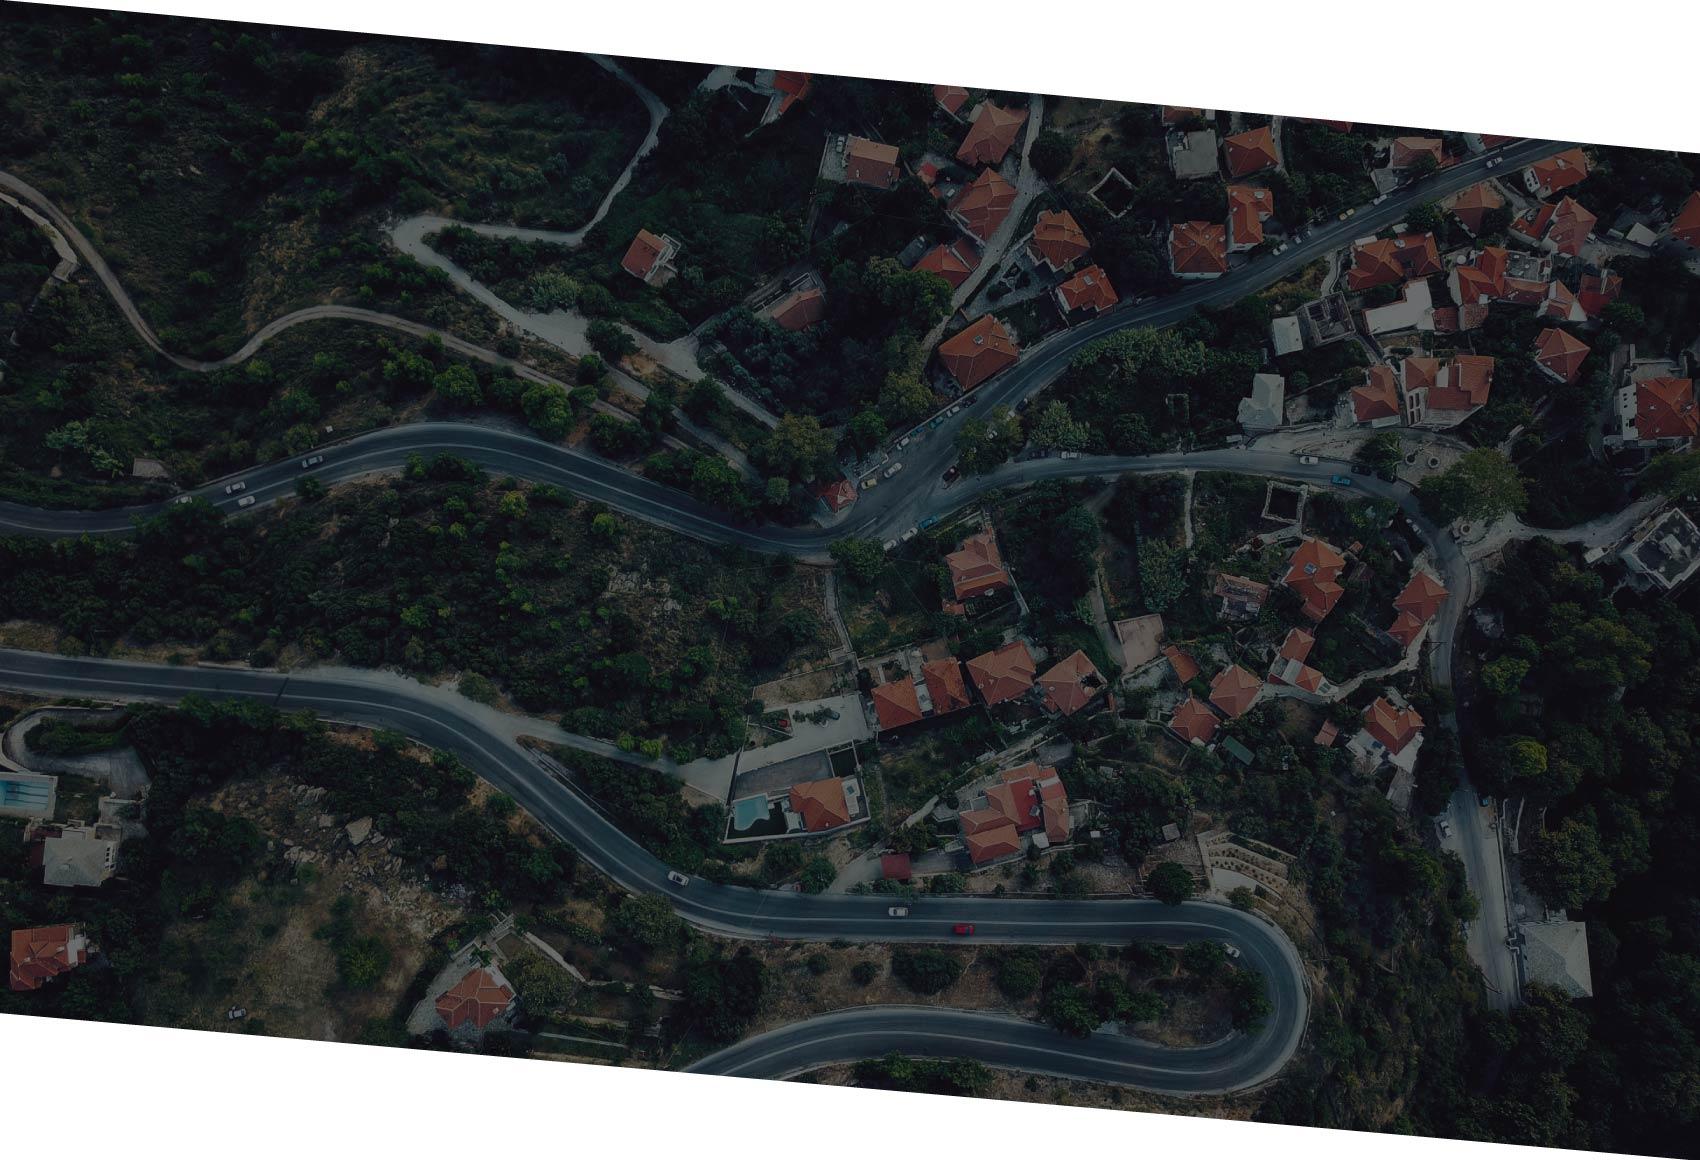
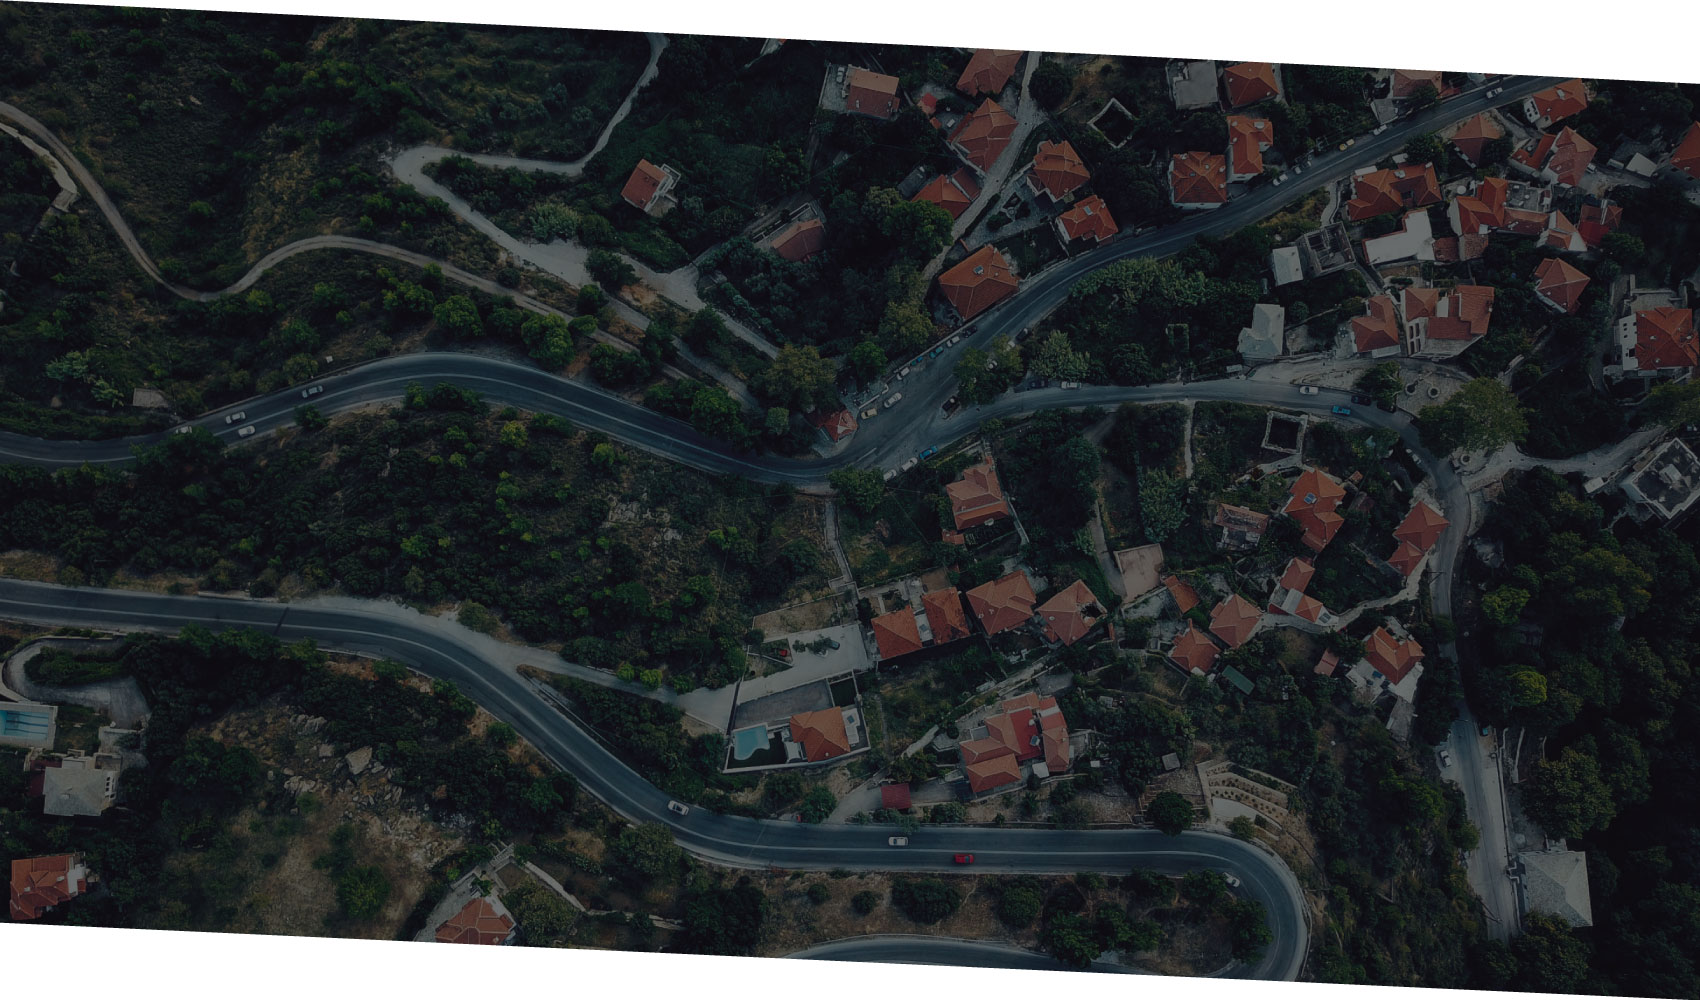
background fix

diff --git a/index.html b/index.html
@@ -67,15 +67,12 @@
 	<nav class="nav-menu-res" id="navbar">
 		<div class="menures-block">
 	    	<div class="menu-hide" id="menu-hide">
-		        <a href="index.html">
-		          <img class="menures__logo" src="assets/images/nereus-menu.png">
-		        </a>
 		        <ul class="menures">
-		            <li><span></span><a href="#"><h4>Nosotros</h4></a></li>
-		            <li><span></span><a href="#estadisticas"><h4>Estadísticas</h4></a></li>
-		            <li><span></span><a href="#partners"><h4>Partners</h4></a></li>
-		            <li><span></span><a href="#productos"><h4>Productos</h4></a></li>
-		            <li><span></span><a href="#contacto"><h4>Contacto</h4></a></li>
+		            <li><a href="#">Nosotros</a></li>
+		            <li><a href="#estadisticas">Estadísticas</a></li>
+		            <li><a href="#partners">Partners</a></li>
+		            <li><a href="#productos">Productos</a></li>
+		            <li><a href="#contacto">Contacto</a></li>
 		        </ul>
 	    	</div>
 		    <div class="hamburger_div" id="hamburger">

diff --git a/assets/js/myscript.js b/assets/js/myscript.js
@@ -59,7 +59,6 @@ const md = window.matchMedia( "(min-width: 1000px)" );
 		desplazar();
 		e.stopPropagation();
 		menuHideShow = $('.nav-menu-res').children(".menu-hide").hasClass('show');
-		$('.menuicon').addClass('menuicon--black');
 		console.log(menuHideShow)
 	})
 
@@ -67,7 +66,6 @@ const md = window.matchMedia( "(min-width: 1000px)" );
 		if (menuHideShow = true && e.target.className != 'menu-hide show') {
 			$('.menu-hide').removeClass('show');
 			$('#hamburger').removeClass('hamburguer-slide');
-			$('.menuicon').removeClass('menuicon--black');
 			e.stopPropagation();
 		}
 		console.log(e.target)
@@ -153,7 +151,7 @@ const md = window.matchMedia( "(min-width: 1000px)" );
 					$('#partnersFlex').removeClass('element_hide-show');
 				}
 
-				if ($(window).scrollTop() + 200 >= certificadosSection.top ) {
+				if ($(window).scrollTop()  >= certificadosSection.top ) {
 					$('#certificadosFlex').addClass('element_hide-show');
 				} else {
 					$('#certificadosFlex').removeClass('element_hide-show');

diff --git a/assets/css/responsive.css b/assets/css/responsive.css
@@ -245,7 +245,7 @@
 	.brief__section {
 		background-image: url(../images/bkg-2-1700.jpg);
 		padding: 0 35vw;
-		height: 95vh;
+		height: 1024px;
 	}
 
 	.brief__paragraph {
@@ -271,12 +271,12 @@
 
 	.statistics__section {
 		background-image: url(../images/bkg-3-1700.jpg);
-		padding: 35vh 0vw;
+		height: 990px;
 	}
 
 	.statistics__title {
+		padding: 20% 30% 0 30%;
 		font-size: 1.2rem;
-		padding: 0 30%;
 	}
 
 	.statics_one_section {
@@ -368,11 +368,11 @@
 
 	.certificados__section {
 		background-image: url('../images/bkg-4-1700.jpg');
-		padding: 35vh 12vw;
+		height: 1200px;
 	}
 
 	.certificados__title {
-		padding: 0 35%;
+		padding: 35% 35% 0 35%;
 		font-size: 1.2rem;
 	}
 
@@ -457,7 +457,6 @@
 
 	.statistics__section {
 		background-image: url(../images/bkg-3-1700.jpg);
-		padding: 47vh 0vw;
 	}
 
 	.statistics__title {
@@ -490,7 +489,6 @@
 
 	.certificados__section {
 		background-image: url('../images/bkg-4-1700.jpg');
-		padding: 44vh 12vw;
 	}
 
 	.certificados__quote {

diff --git a/assets/css/menu.css b/assets/css/menu.css
@@ -7,30 +7,19 @@
   position: absolute;
 }
 
-.menu_full {
-  display: none;
-}
-
 .menu-hide{
-  width: 200px;
-  left: -205px;
-  height: 100vh;
+  left: -100px;
   position: fixed;
   top: 0px;
   transition: all .5s ease-in-out;
   text-align: center;
   z-index: 50;
-  padding-top: 100px;
-  background-color: #fff;
+  padding-top: 5vh;
 }
 
 .show{
-  left: 0px;
+  left: 20px;
   transition: all .5s ease-in-out;
-}
-
-.menures__logo {
-  width: 70%;
 }
 
 .hamburger_div {
@@ -73,21 +62,18 @@
 
 .menures {
   text-align: left;
-  margin-top: 70px;
+  padding: 0;
 }
 
 .menures li {
   list-style-type: none;
-  margin-left: 5%;
   position: relative;
 }
 
 .menures a {
+  color: #fff;
   text-decoration: none;
-  color: #000;
-  margin: 2px 0;
   display: inline-block;
-  margin-left: 5px;
   transition: 0.5s;
 }
 
